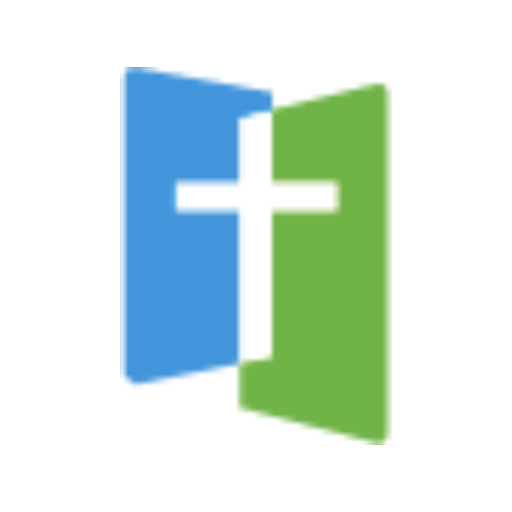
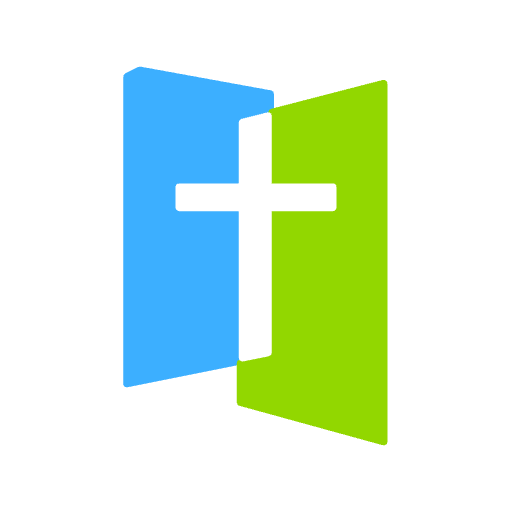
앱 아이콘·로고 심벌을 교단 공식 심벌(벡터)로 교체

diff --git a/index.html b/index.html
@@ -25,9 +25,9 @@
 <meta name="description" content="영광 커넥트 · 송탄영광교회 전교인 온라인 시스템"/>
 <meta name="viewport" content="width=device-width, initial-scale=1"/>
 <title>영광 커넥트 · 송탄영광교회</title>
-<link rel="apple-touch-icon" sizes="180x180" href="icon-180.png"/>
-<link rel="icon" type="image/png" sizes="192x192" href="icon-192.png"/>
-<link rel="icon" type="image/png" sizes="512x512" href="icon-512.png"/>
+<link rel="apple-touch-icon" sizes="180x180" href="icon-180.png?v=2"/>
+<link rel="icon" type="image/png" sizes="192x192" href="icon-192.png?v=2"/>
+<link rel="icon" type="image/png" sizes="512x512" href="icon-512.png?v=2"/>
 <link rel="manifest" href="manifest.webmanifest"/>
 <meta name="apple-mobile-web-app-title" content="영광 커넥트"/>
 <meta name="application-name" content="영광 커넥트"/>
@@ -476,7 +476,7 @@ textarea.f-in:disabled{opacity:1;background:#f8fafc;color:var(--ink);-webkit-tex
 <!-- ================= HOME LAUNCHER ================= -->
 <div id="home" class="home">
   <div class="hbar">
-    <img class="logo" src="logo.png" alt="송탄영광교회"/>
+    <img class="logo" src="logo.png?v=2" alt="송탄영광교회"/>
     <button class="pwr" onclick="pwrTap()" title="로그인">
       <svg width="30" height="30" viewBox="0 0 48 48" fill="none" stroke="currentColor" stroke-width="3" stroke-linecap="round" stroke-linejoin="round">
         <clipPath id="loginClip"><circle cx="24" cy="24" r="18.5"/></clipPath>
@@ -514,7 +514,7 @@ textarea.f-in:disabled{opacity:1;background:#f8fafc;color:var(--ink);-webkit-tex
 <div id="loginGate" class="gate" style="display:none">
   <div class="gatecard" style="max-width:400px">
     <span class="gx" onclick="closeLogin()">✕</span>
-    <img class="glogo" src="logo.png" alt="송탄영광교회"/>
+    <img class="glogo" src="logo.png?v=2" alt="송탄영광교회"/>
     <h1>영광 커넥트 로그인</h1>
     <div class="gsub">테스트베드 · 이름과 비밀번호로 로그인하세요. (기본 비밀번호 <b>1234</b>)</div>
     <label style="display:block;font-size:13px;font-weight:600;margin:10px 0 5px">이름</label>
@@ -529,7 +529,7 @@ textarea.f-in:disabled{opacity:1;background:#f8fafc;color:var(--ink);-webkit-tex
 <!-- ================= APP ================= -->
 <div id="app" style="display:none">
 <header>
-  <img class="logo" src="logo.png" alt="송탄영광교회" style="cursor:pointer" onclick="goHome()"/>
+  <img class="logo" src="logo.png?v=2" alt="송탄영광교회" style="cursor:pointer" onclick="goHome()"/>
   <div><h1>영광 커넥트</h1><div class="sub"><span id="roleLabel"></span></div></div>
   <button class="btn sec sm" style="margin-left:auto" onclick="goHome()">HOME</button>
   <button class="btn sec sm" id="pwBtn" onclick="openPwChange()" style="display:none">🔑 비밀번호 변경</button>
